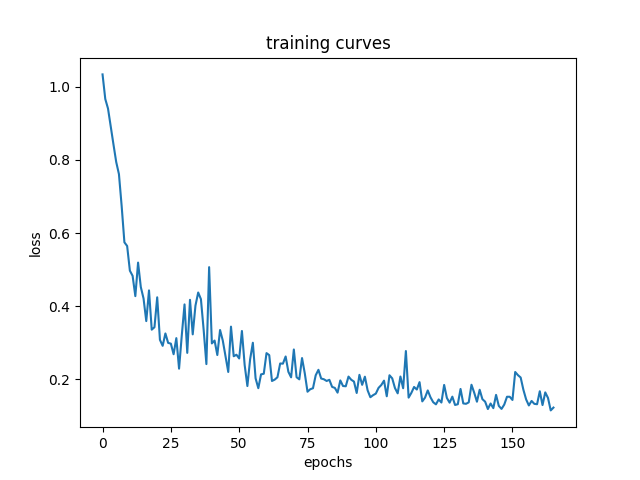
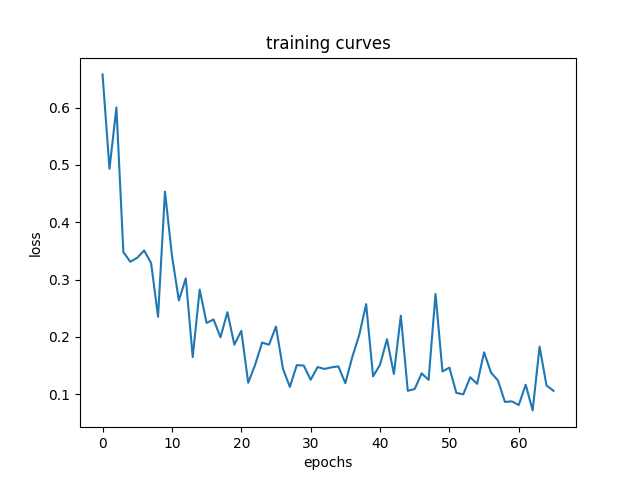
update

diff --git a/main.py b/main.py
@@ -57,21 +57,21 @@ def layers(vgg_layer3_out, vgg_layer4_out, vgg_layer7_out, num_classes):
     # TODO: Implement function
 
     conv_1x1 = tf.layers.conv2d(vgg_layer7_out, num_classes, 1, padding='SAME',
-            kernel_regularizer=tf.contrib.layers.l2_regularizer(1e-3))
+            kernel_regularizer=tf.contrib.layers.l2_regularizer(1e-3), kernel_initializer=tf.truncated_normal_initializer(stddev=0.01))
     output0 = tf.layers.conv2d_transpose(conv_1x1, num_classes, 4, 2, padding='SAME',
-            kernel_regularizer=tf.contrib.layers.l2_regularizer(1e-3))
+            kernel_regularizer=tf.contrib.layers.l2_regularizer(1e-3), kernel_initializer=tf.truncated_normal_initializer(stddev=0.01))
 
     conv_1x1 = tf.layers.conv2d(vgg_layer4_out, num_classes, 1, padding='SAME',
-            kernel_regularizer=tf.contrib.layers.l2_regularizer(1e-3))
+            kernel_regularizer=tf.contrib.layers.l2_regularizer(1e-3), kernel_initializer=tf.truncated_normal_initializer(stddev=0.01))
     output1 = tf.add(conv_1x1, output0)
     output1 = tf.layers.conv2d_transpose(output1, num_classes, 4, 2, padding='SAME',
-            kernel_regularizer=tf.contrib.layers.l2_regularizer(1e-3))
+            kernel_regularizer=tf.contrib.layers.l2_regularizer(1e-3), kernel_initializer=tf.truncated_normal_initializer(stddev=0.01))
 
     conv_1x1 = tf.layers.conv2d(vgg_layer3_out, num_classes, 1, padding='SAME',
-            kernel_regularizer=tf.contrib.layers.l2_regularizer(1e-3))
+            kernel_regularizer=tf.contrib.layers.l2_regularizer(1e-3), kernel_initializer=tf.truncated_normal_initializer(stddev=0.01))
     output2 = tf.add(conv_1x1, output1)
     output2 = tf.layers.conv2d_transpose(output2, num_classes, 16, 8, padding='SAME',
-            kernel_regularizer=tf.contrib.layers.l2_regularizer(1e-3))
+            kernel_regularizer=tf.contrib.layers.l2_regularizer(1e-3), kernel_initializer=tf.truncated_normal_initializer(stddev=0.01))
     return output2
 tests.test_layers(layers)
 
